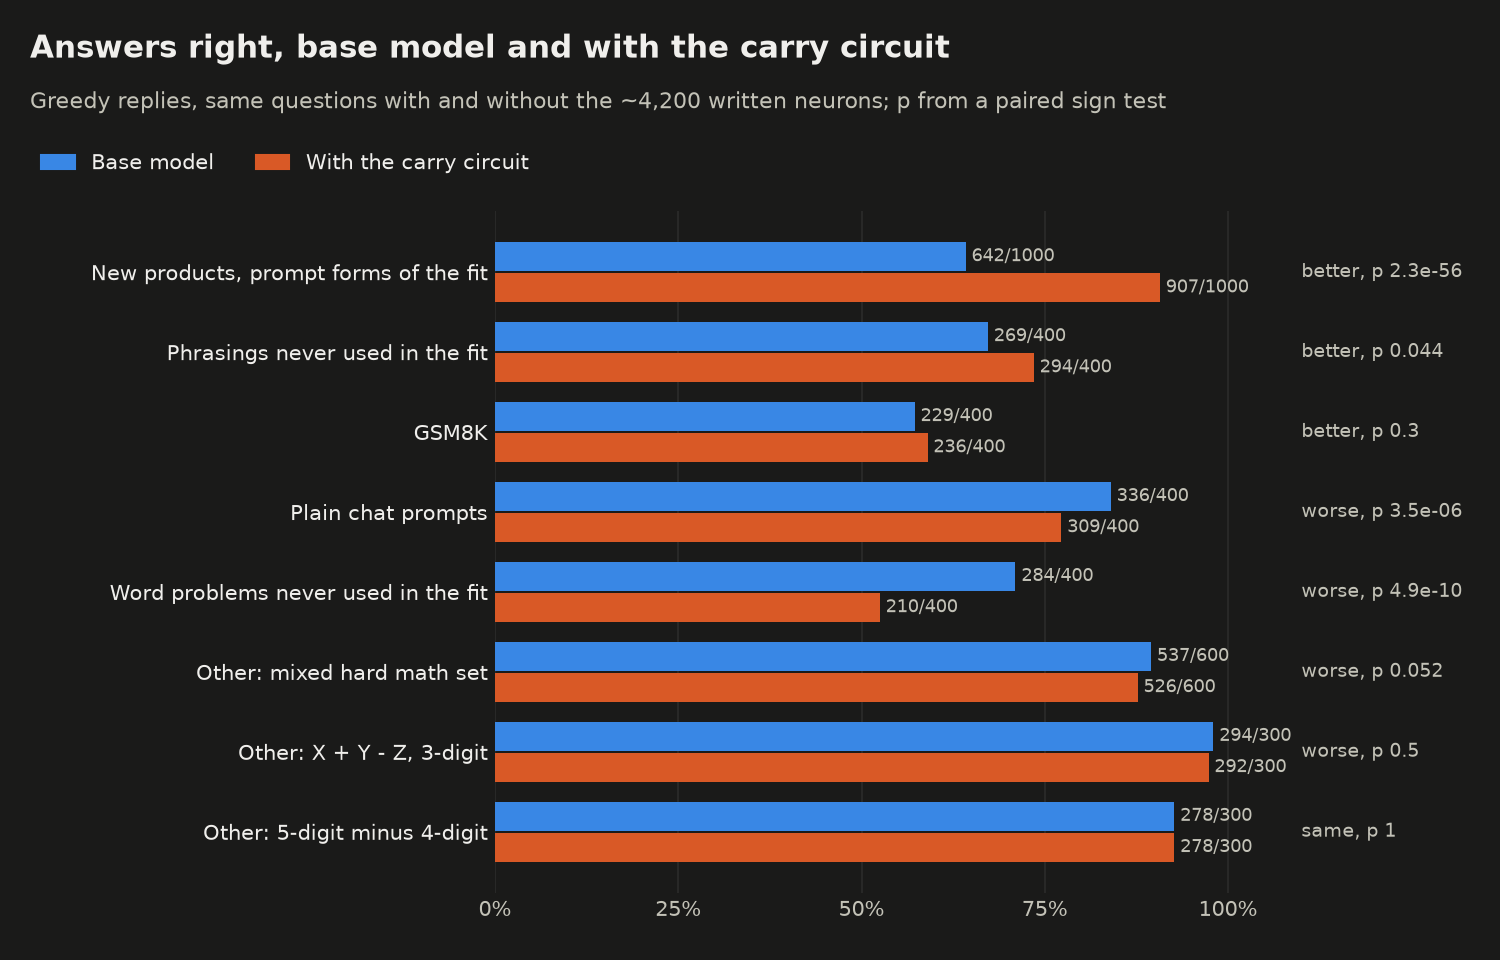
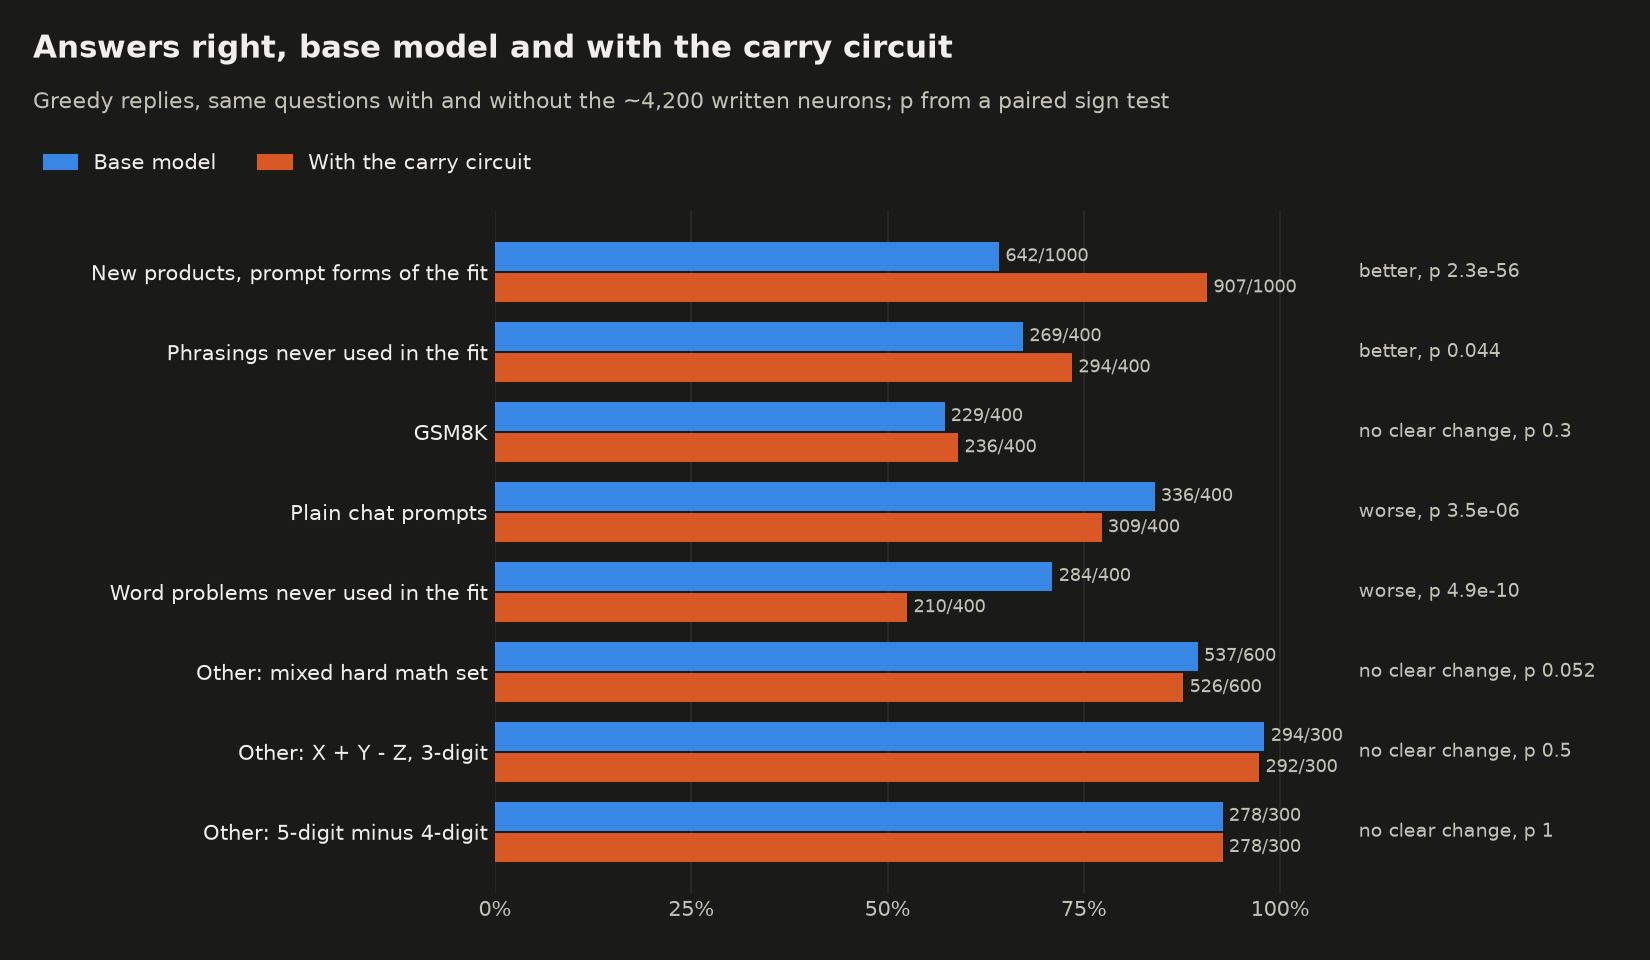
docs: add the summary chart; mark changes at p >= 0.05 as unclear

diff --git a/plots.py b/plots.py
@@ -204,7 +204,7 @@ def save(fig, t: Theme, name: str) -> Path:
 
 
 def plot_results(t: Theme, rows: list[Paired]) -> Path:
-    fig, ax = frame(t, (10, 6.4))
+    fig, ax = frame(t, (11, 6.4))
     base, edit = t.series[0], t.series[1]
     h, gap = 0.36, 0.03
     for i, r in enumerate(rows):
@@ -220,11 +220,10 @@ def plot_results(t: Theme, rows: list[Paired]) -> Path:
                 color=t.ink2,
                 fontsize=8.5,
             )
-        word = "better" if r.edit > r.base else "worse" if r.edit < r.base else "same"
-        ax.text(110, y, f"{word}, p {r.p}", va="center", color=t.ink2, fontsize=9)
+        ax.text(110, y, f"{change(r)}, p {r.p}", va="center", color=t.ink2, fontsize=9)
     ax.set_yticks(range(len(rows)))
     ax.set_yticklabels([r.label for r in reversed(rows)], color=t.ink, fontsize=10)
-    ax.set_xlim(0, 133)
+    ax.set_xlim(0, 145)
     ax.set_xticks([0, 25, 50, 75, 100])
     ax.set_xticklabels([f"{x}%" for x in [0, 25, 50, 75, 100]])
     ax.grid(axis="x", color=t.grid, linewidth=0.8)
@@ -244,8 +243,101 @@ def plot_results(t: Theme, rows: list[Paired]) -> Path:
         ],
         0.86,
     )
-    fig.subplots_adjust(left=0.33, right=0.98, top=0.78, bottom=0.07)
+    fig.subplots_adjust(left=0.30, right=0.99, top=0.78, bottom=0.07)
     return save(fig, t, "results")
+
+
+def change(r: Paired) -> str:
+    """ "better" or "worse" at p < 0.05, else "no clear change"."""
+    if float(r.p) >= 0.05:
+        return "no clear change"
+    return "better" if r.edit > r.base else "worse"
+
+
+def plot_summary(t: Theme, rows: list[Paired]) -> Path:
+    """The three headline sets as vertical bars, sized for a post."""
+    picked = [rows[0], rows[1], rows[4]]
+    names = [
+        "Prompt forms used in the fit",
+        "Phrasings never used in the fit",
+        "Word problems never used in the fit",
+    ]
+    fig, ax = frame(t, (12, 6.75))
+    base, edit = t.series[0], t.series[1]
+    w, gap = 0.34, 0.02
+    for i, (r, name) in enumerate(zip(picked, names, strict=True)):
+        for j, (v, c) in enumerate([(r.base, base), (r.edit, edit)]):
+            x = i + (j - 0.5) * (w + gap)
+            pct = v / r.n * 100
+            ax.bar(x, pct, width=w, color=c)
+            ax.text(
+                x,
+                pct + 1.5,
+                f"{pct:.0f}%",
+                ha="center",
+                va="bottom",
+                color=t.ink,
+                fontsize=15,
+                fontweight="bold",
+            )
+            ax.text(
+                x,
+                pct + 7.5,
+                f"{v}/{r.n}",
+                ha="center",
+                va="bottom",
+                color=t.ink2,
+                fontsize=11,
+            )
+        ax.text(i, -6, name, ha="center", va="top", color=t.ink, fontsize=13)
+        ax.text(
+            i,
+            -12,
+            f"{change(r)}, p = {r.p}",
+            ha="center",
+            va="top",
+            color=t.ink2,
+            fontsize=11,
+        )
+    ax.set_xlim(-0.6, 2.6)
+    ax.set_ylim(0, 112)
+    ax.set_xticks([])
+    ax.set_yticks([0, 25, 50, 75, 100])
+    ax.set_yticklabels([f"{x}%" for x in [0, 25, 50, 75, 100]], fontsize=11)
+    ax.grid(axis="y", color=t.grid, linewidth=0.8)
+    fig.text(
+        0.06,
+        0.95,
+        "Hand-written carry neurons in Qwen3-0.6B, no training",
+        color=t.ink,
+        fontsize=19,
+        fontweight="bold",
+        va="top",
+    )
+    fig.text(
+        0.06,
+        0.885,
+        "2-digit x 2-digit products answered right (greedy, "
+        "same questions with and without the neurons)",
+        color=t.ink2,
+        fontsize=12,
+        va="top",
+    )
+    leg = fig.legend(
+        handles=[
+            Patch(color=base, label="Base model"),
+            Patch(color=edit, label="With ~4,200 written neurons"),
+        ],
+        loc="upper left",
+        bbox_to_anchor=(0.055, 0.85),
+        frameon=False,
+        fontsize=12,
+        ncol=2,
+    )
+    for x in leg.get_texts():
+        x.set_color(t.ink)
+    fig.subplots_adjust(left=0.07, right=0.97, top=0.74, bottom=0.18)
+    return save(fig, t, "summary")
 
 
 def plot_probe(t: Theme, data) -> Path:
@@ -401,6 +493,7 @@ def main() -> None:
     data = results(), probe(), gate(), alpha()
     for t in THEMES:
         for path in [
+            plot_summary(t, data[0]),
             plot_results(t, data[0]),
             plot_probe(t, data[1]),
             plot_gate(t, data[2]),

diff --git a/README.md b/README.md
@@ -37,7 +37,12 @@ them, is in [NOTES.md](NOTES.md).
 (`uv run --with matplotlib python plots.py`).
 
 The carry circuit against the base model, on the same questions
-(`runs/carrymulti_w12_gen.log`):
+(`runs/carrymulti_w12_gen.log`). First the three main sets, then all sets:
+
+<picture>
+  <source media="(prefers-color-scheme: dark)" srcset="docs/img/summary-dark.png">
+  <img alt="Answers right with and without the carry circuit, on the three main sets" src="docs/img/summary-light.png">
+</picture>
 
 <picture>
   <source media="(prefers-color-scheme: dark)" srcset="docs/img/results-dark.png">
